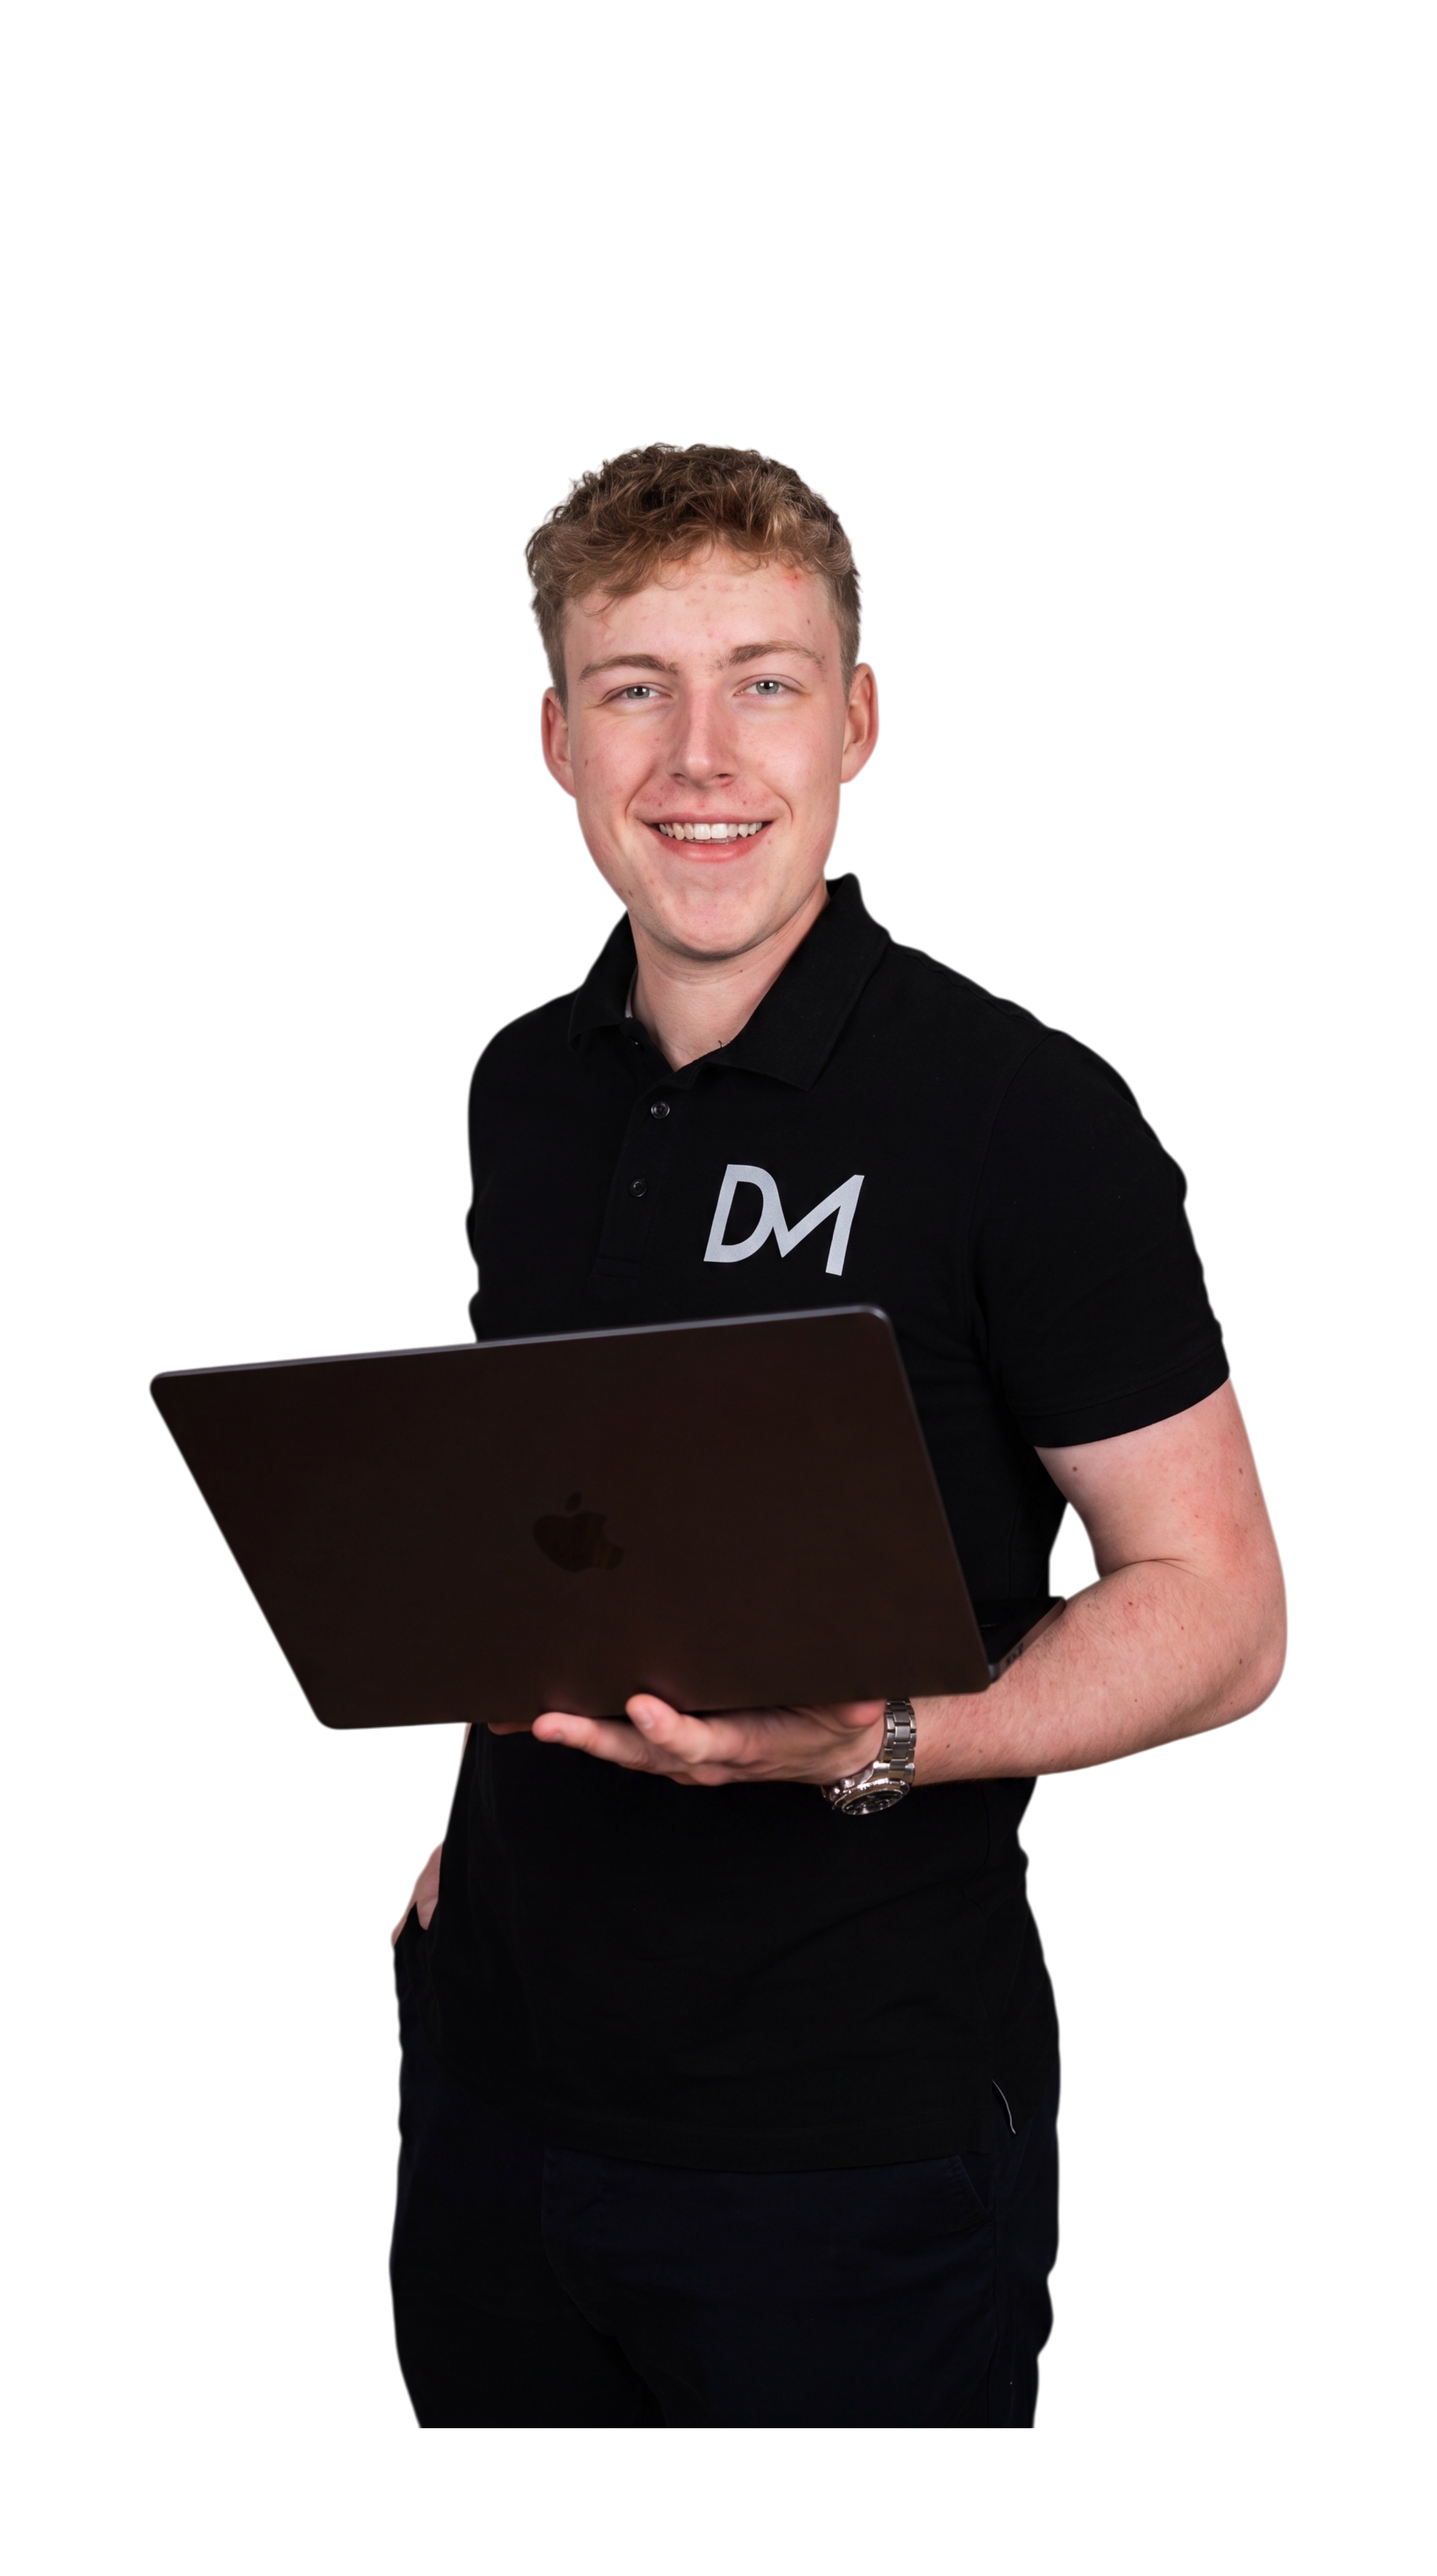
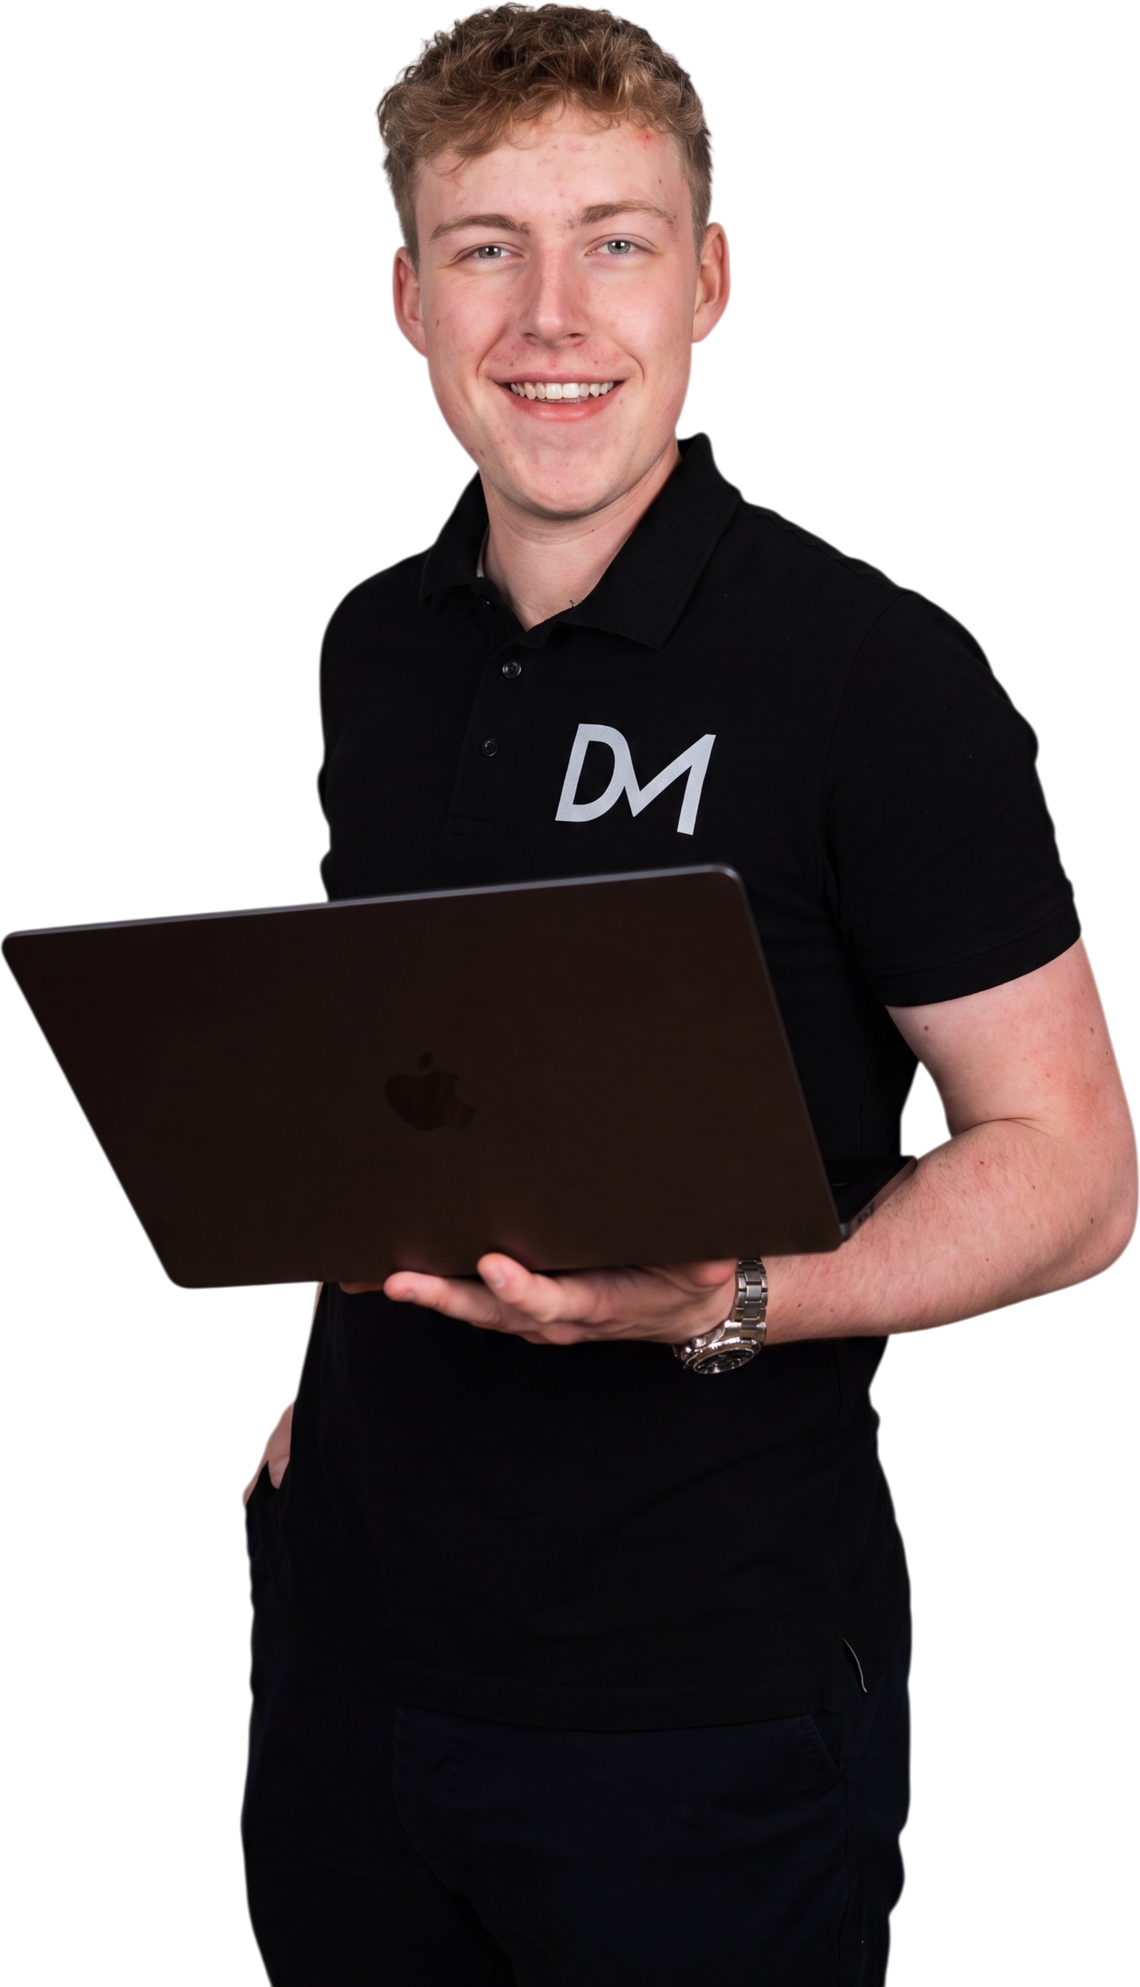
fix(hero): getrennte Gründer korrekt darstellen (Höhen-Skalierung + Fallback aus)
Zwei Probleme behoben, nachdem die echten Einzelbilder hochgeladen wurden:

1) Das kombinierte Fallback-Bild blieb sichtbar, obwohl der Split aktiv war:
   die Regel `.hero-founders-stage picture { display: contents }` überschrieb das
   [hidden]-Attribut. Neu: `picture[hidden] { display: none !important }`.

2) Die zwei Cutouts wurden unterschiedlich groß/zusammengeschoben, weil die
   Quell-PNGs sehr verschiedene Ränder/Seitenverhältnisse hatten. Jetzt:
   - beide PNGs auf ihre Bounding-Box zugeschnitten (transparente Ränder weg)
   - Split HÖHENBASIERT skaliert (feste Stage-Höhe, width:auto, object-fit)
     → beide Gründer gleich groß, stehen auf einer Bodenlinie.

Raphael links, Timo rechts; Einblendung/Float/Parallax bleiben erhalten.
Desktop + Mobile geprüft (kein horizontaler Overflow).

Claude-Session: https://claude.ai/code/session_017ozY5dttK4V9ocKdR4NkZB

diff --git a/assets/style.css b/assets/style.css
@@ -654,6 +654,9 @@ main { padding-top: 2rem; }
 /* <picture>-Wrapper aus dem Layout nehmen, damit das <img> direkter
    Flex-Child der Stage bleibt (Zentrierung/Breite wie zuvor). */
 .hero-founders-stage picture { display: contents; }
+/* Das [hidden]-Attribut muss die display:contents-Regel schlagen, sonst bleibt
+   das kombinierte Fallback-Bild sichtbar, obwohl der Split aktiv ist. */
+.hero-founders-stage picture[hidden] { display: none !important; }
 
 .hero-founders-cutout {
     position: relative;
@@ -693,18 +696,24 @@ main { padding-top: 2rem; }
     position: relative;
     z-index: 2;
     display: flex;
-    align-items: flex-end;
+    align-items: flex-end;      /* beide stehen auf einer Bodenlinie */
     justify-content: center;
-    gap: clamp(0.4rem, 2vw, 1.5rem);
+    gap: clamp(0.5rem, 3vw, 2.5rem);
     width: 100%;
+    /* Feste Stage-Höhe → beide Gründer werden HÖHENBASIERT skaliert und wirken
+       dadurch gleich groß, unabhängig von der Breite/Freistellung der Quelle. */
+    height: clamp(360px, 52vw, 620px);
 }
 /* Bei aktiver Split-Ansicht übernimmt die Einblendung pro Gründer die Rolle
    der Stage-Einblendung – doppelte Animation vermeiden. */
 .hero-founders-stage.is-split { animation: none; }
 
 .hero-founder {
-    flex: 1 1 0;
-    max-width: 50%;
+    height: 100%;
+    flex: 0 0 auto;            /* Breite = Bildbreite bei fixer Höhe (nicht schrumpfen) */
+    display: flex;
+    align-items: flex-end;
+    justify-content: center;
     transform-origin: bottom center;
     /* Steigt versetzt vom Boden hoch (wie die bisherige Stage-Einblendung). */
     animation: heroRiseIn 1.15s cubic-bezier(0.16, 1, 0.3, 1) both;
@@ -714,9 +723,11 @@ main { padding-top: 2rem; }
 
 .hero-founder-cutout {
     display: block;
-    width: 100%;
-    height: auto;
-    margin: 0 auto;
+    height: 100%;
+    width: auto;
+    max-width: 100%;
+    object-fit: contain;
+    object-position: bottom center;
     /* Parallax-Variablen von der Stage erben + sanftes Schweben (wie Cutout). */
     transform: translate3d(var(--hero-parallax-x, 0), var(--hero-parallax-y, 0), 0) scale(var(--hero-scale, 1));
     transition: transform 0.5s cubic-bezier(0.22, 1, 0.36, 1);
